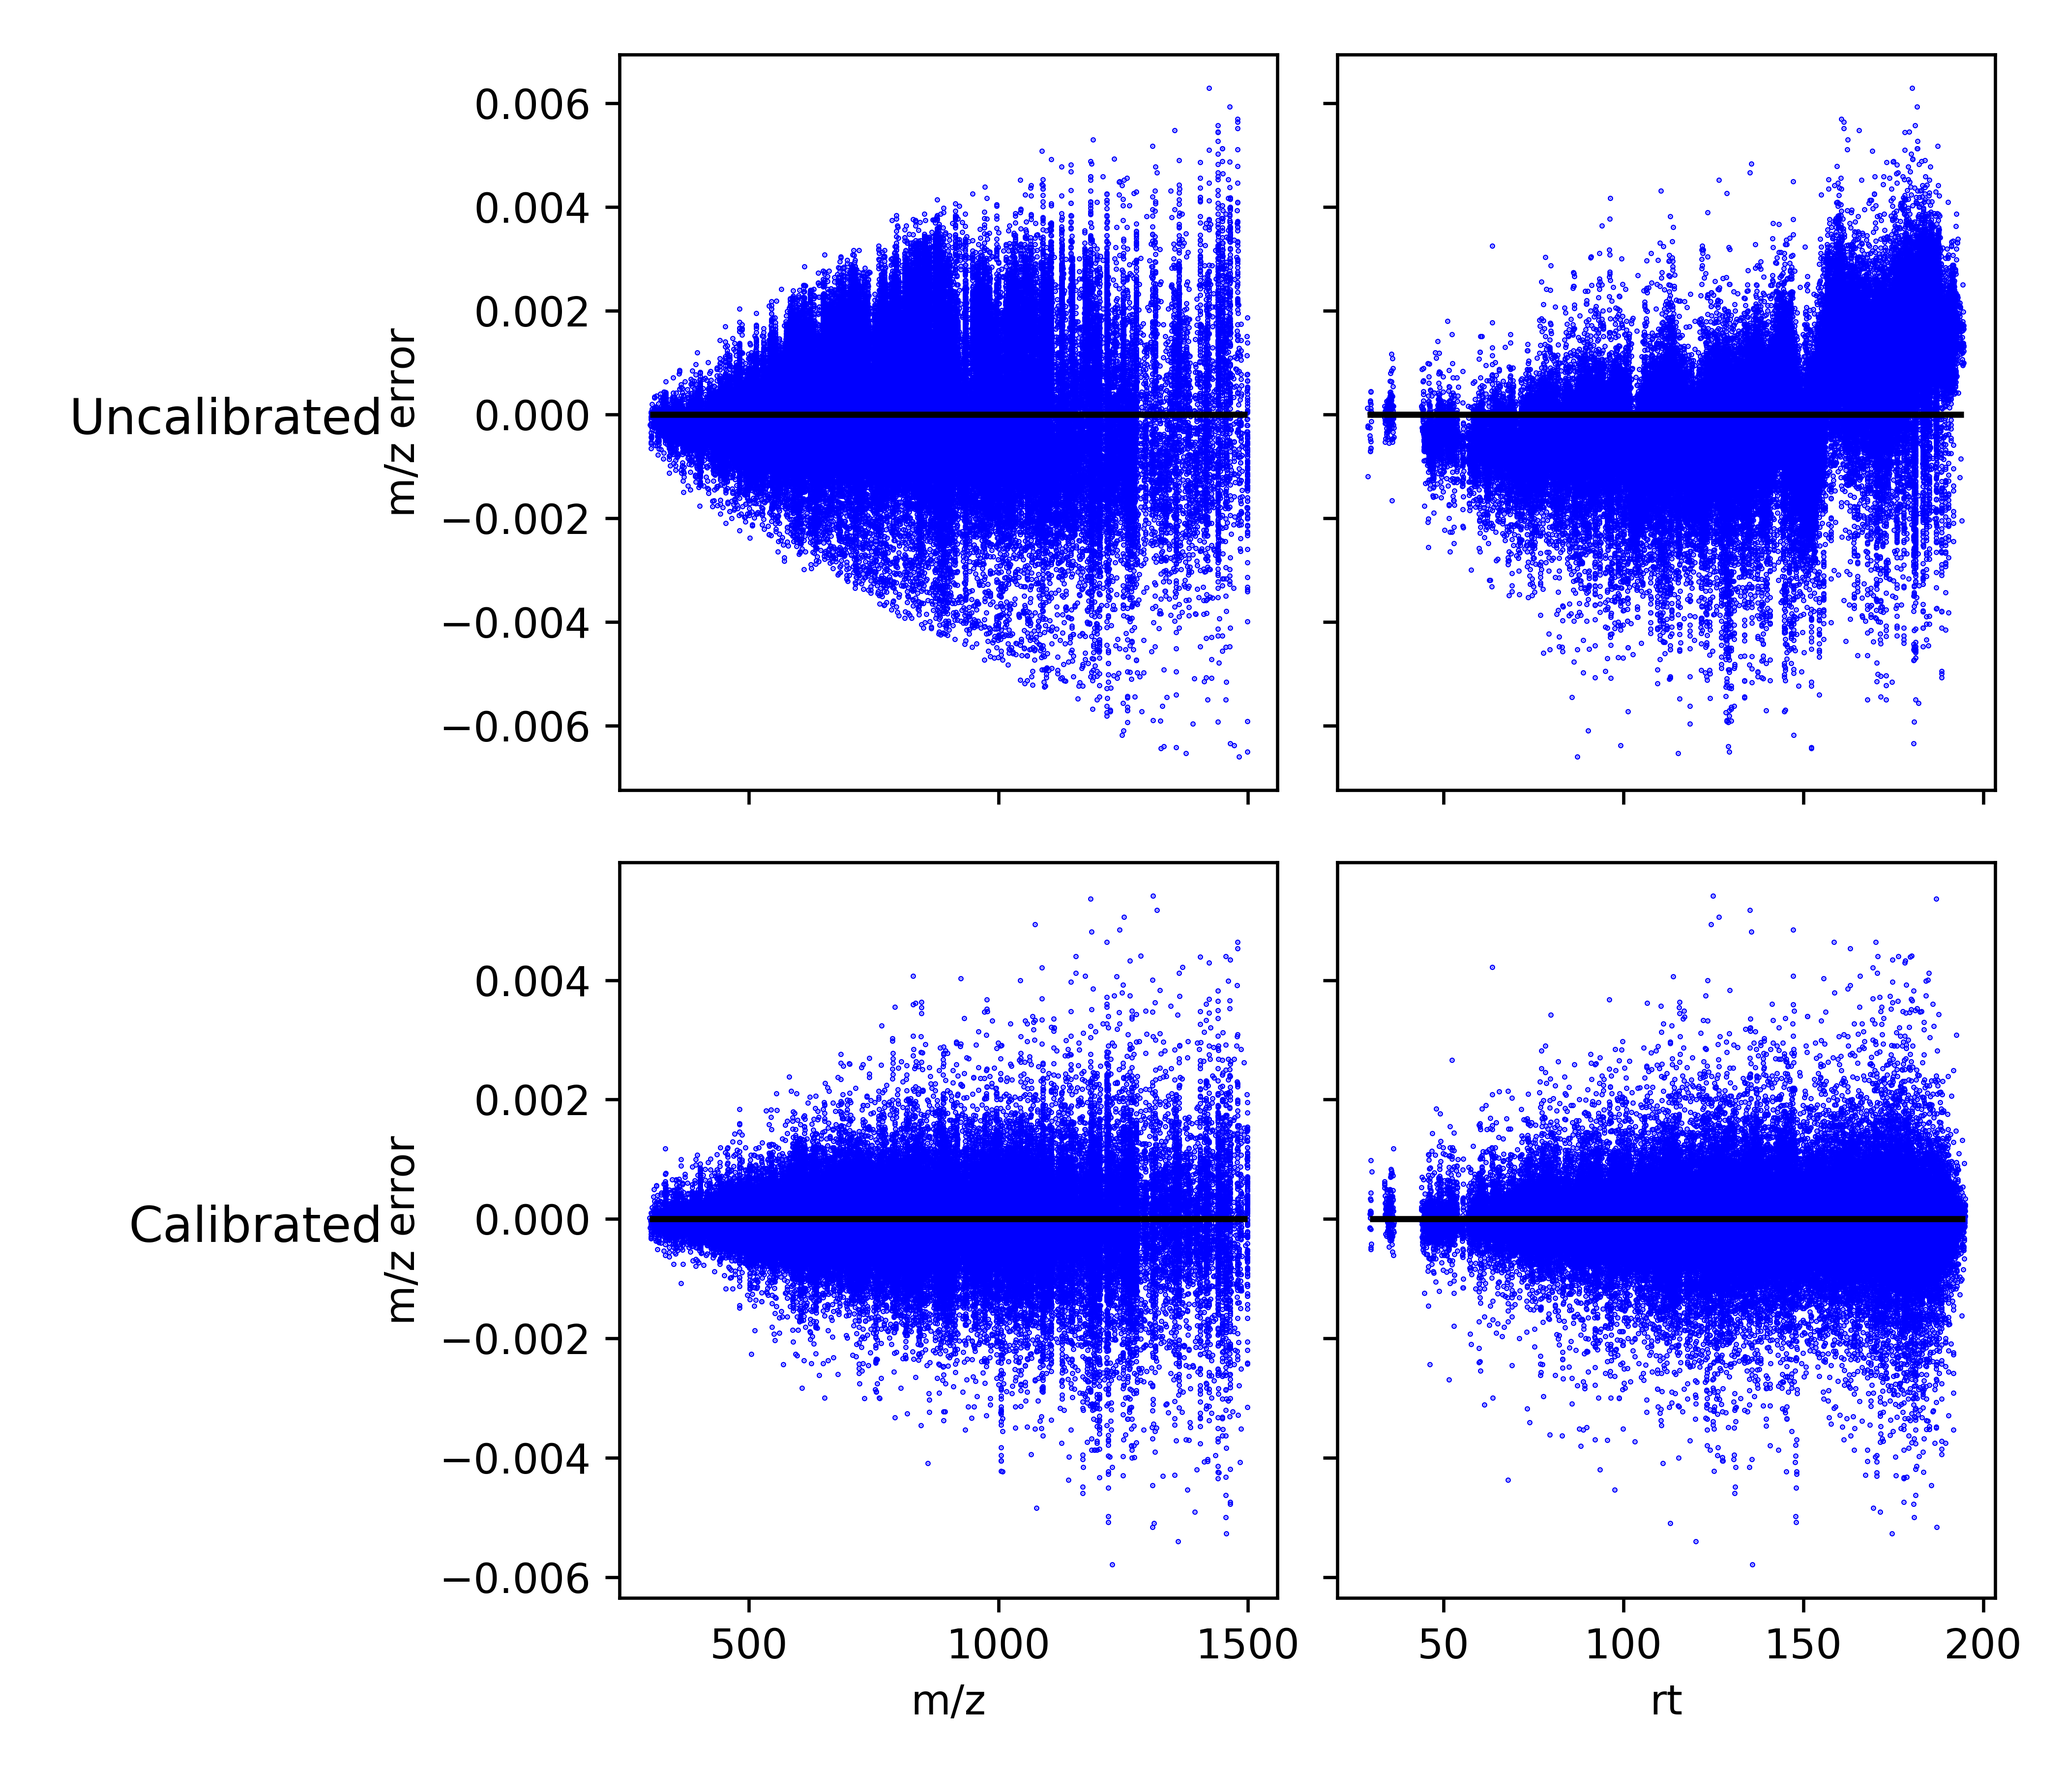
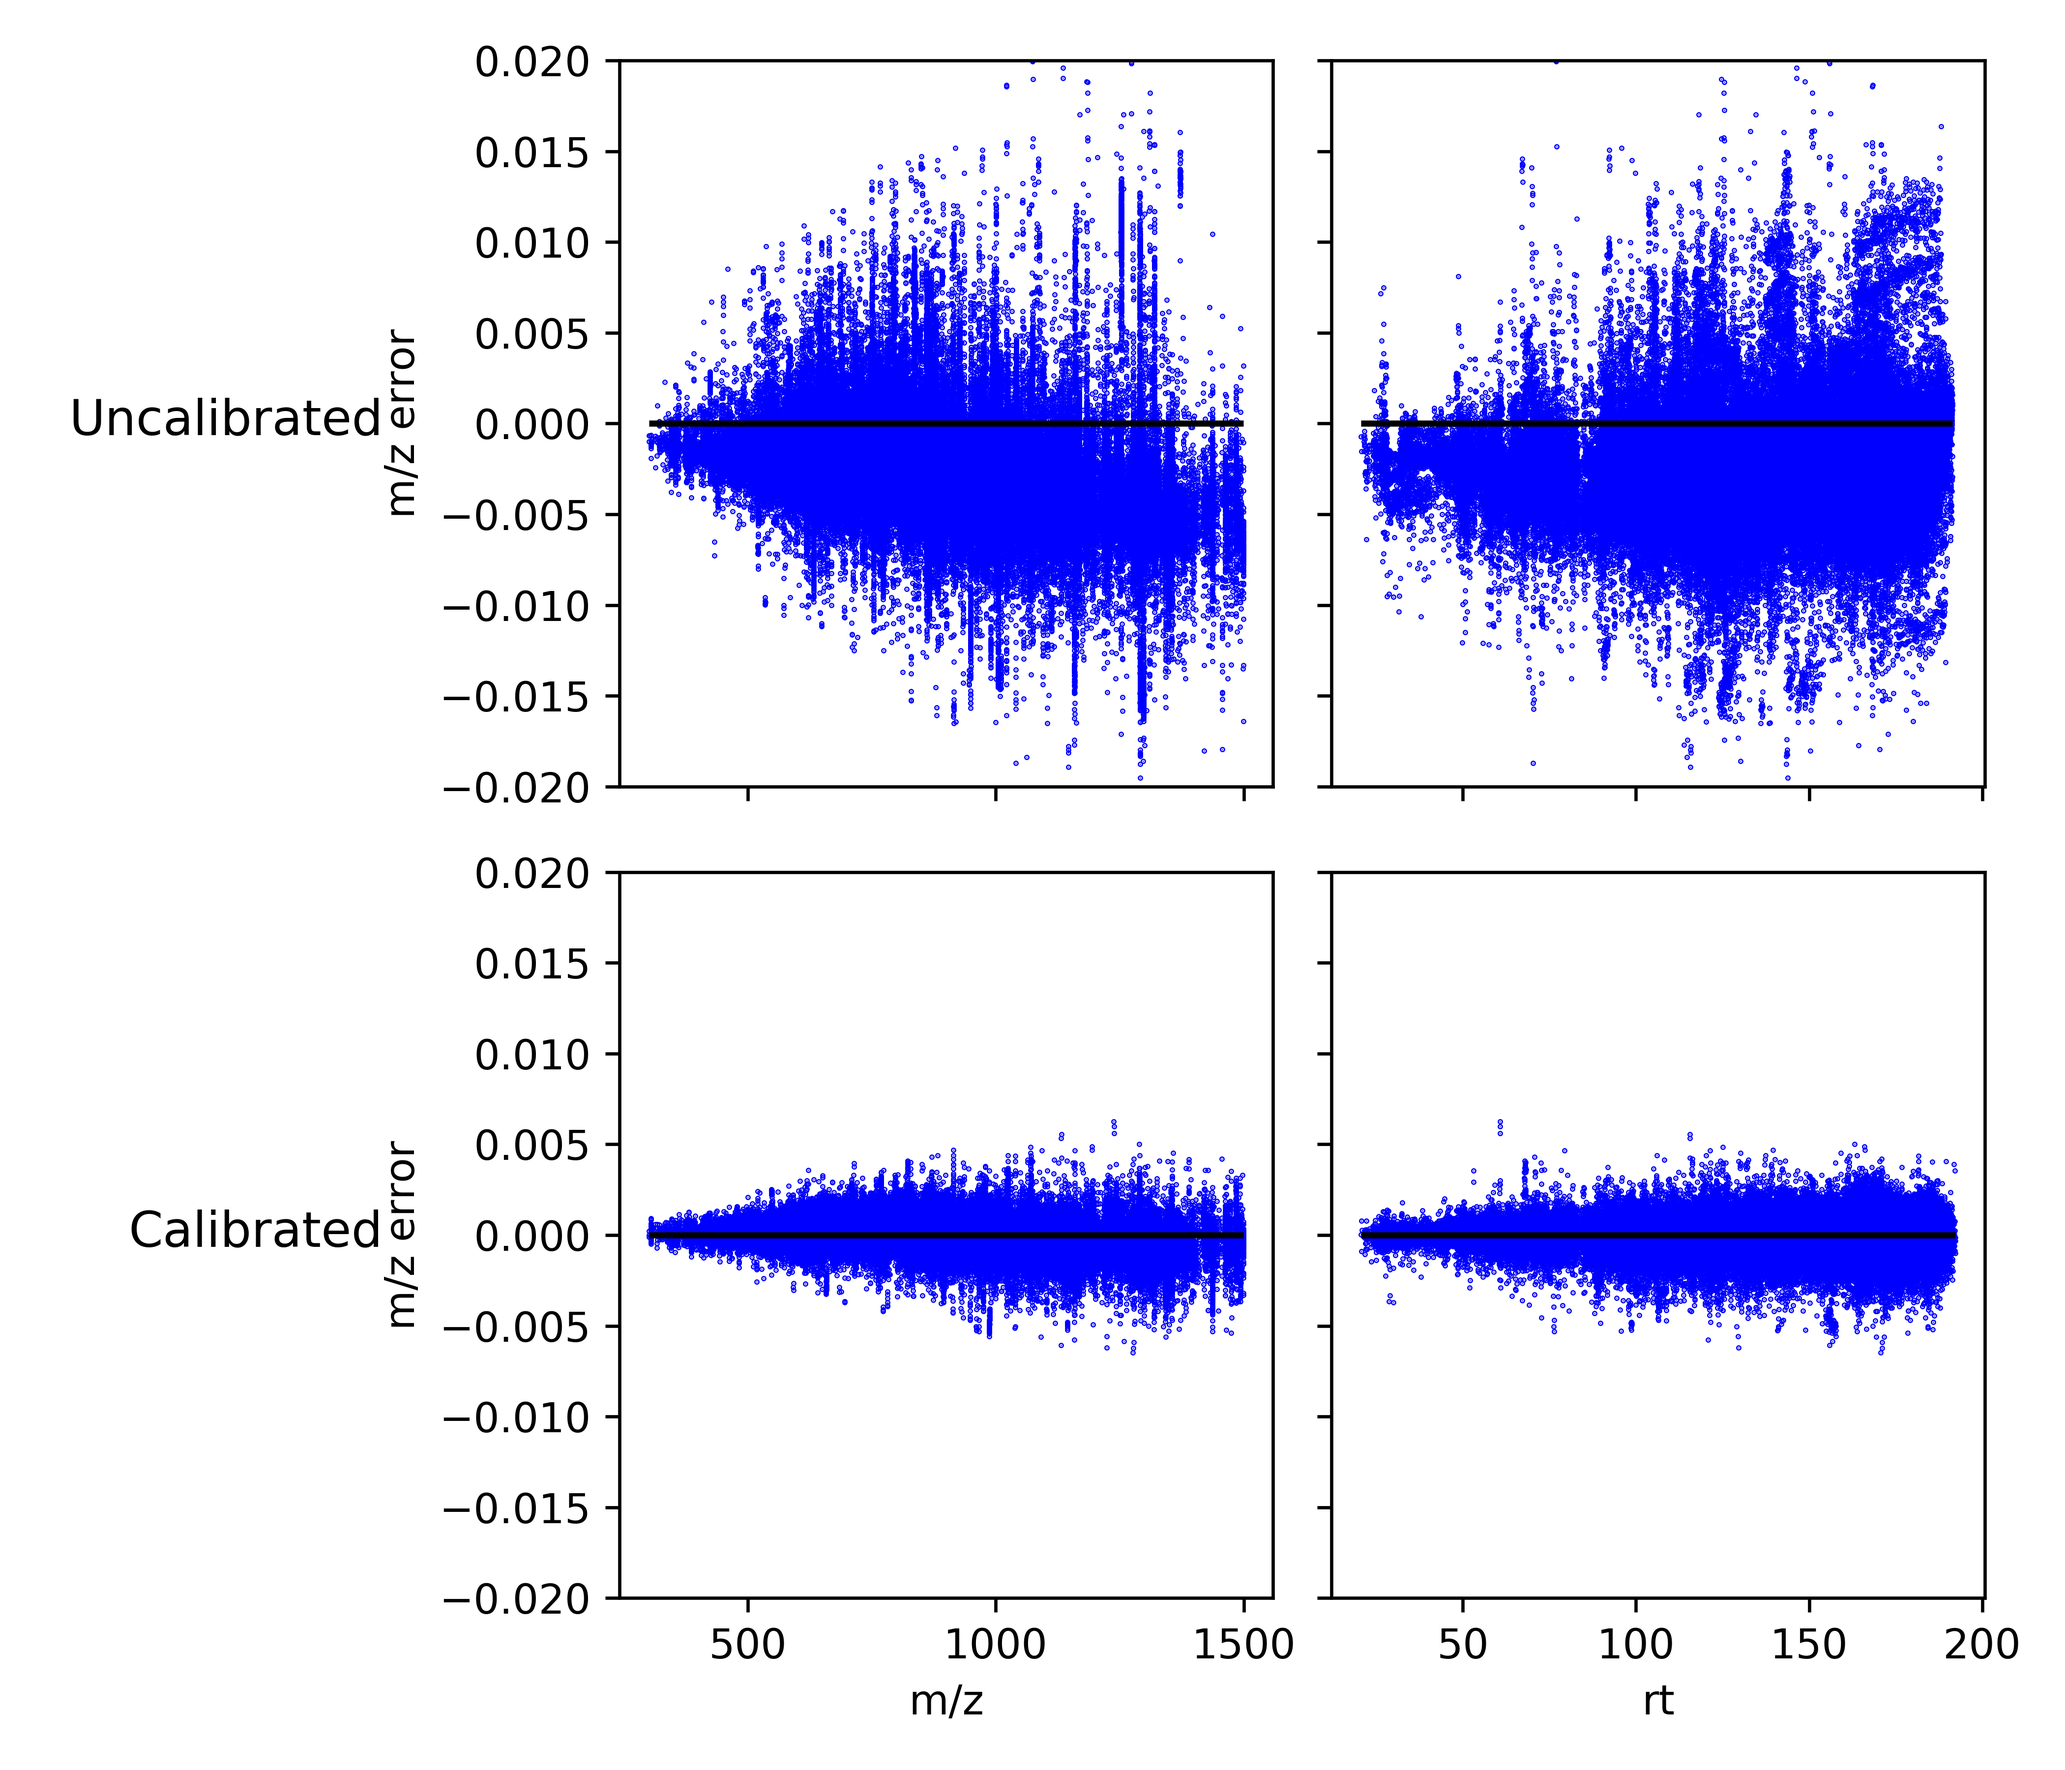
plots

diff --git a/FigureGeneration/fig1-calibErrors.py b/FigureGeneration/fig1-calibErrors.py
@@ -2,25 +2,30 @@ import numpy as np
 import matplotlib.pyplot as plt
 import pandas
 
-nice= pandas.read_csv(r"C:\Users\stepa\Data\PaperData\Jurkat\2017-07-31-17-44-19\Task1Calibrate\120426_Jurkat_highLC_Frac21inLinearbeforesc1.ms1dptsv", sep='\t')
-nice2= pandas.read_csv(r"C:\Users\stepa\Data\PaperData\Jurkat\2017-07-31-17-44-19\Task1Calibrate\120426_Jurkat_highLC_Frac21inNonLinearafterfc9.ms1dptsv", sep='\t')
+nice = pandas.read_csv(r"C:\Users\stepa\Data\PaperData\JurkatTrypsin\2017-10-12-17-10-32\Task1-CalibratingAllJurkat\120426_Jurkat_highLC_Frac16init.ms1dptsv", sep='\t')
+nice2 = pandas.read_csv(r"C:\Users\stepa\Data\PaperData\JurkatTrypsin\2017-10-12-17-10-32\Task1-CalibratingAllJurkat\120426_Jurkat_highLC_Frac16round7inter-scan.ms1dptsv", sep='\t')
 
 height = 6
 width = 7
 
+minY=-0.02
+maxY=0.02
+
 f, ((ax1, ax2), (ax3, ax4)) = plt.subplots(2, 2, sharex='col', sharey='row', figsize=(width,height))
 
-ax1.plot(nice['mz'],nice['Label'], 'bo',markersize = .3)
+ax1.plot(nice['mz'],nice['LabelTh'], 'bo',markersize = .3)
 ax1.hlines(0, min(nice['mz']), max(nice['mz']), zorder = 10)
+ax1.set_ylim([minY,maxY])
 
 ax1.set_ylabel('m/z error')
 ax1.annotate(r"Uncalibrated", xy=(0, 0.5), xycoords=ax1.yaxis.label, textcoords='offset points',
                 size='large', ha='right', va='center', xytext=(0,0.5))
 
-ax2.plot(nice['rt'],nice['Label'], 'bo',markersize = .3)
+ax2.plot(nice['rt'],nice['LabelTh'], 'bo',markersize = .3)
 ax2.hlines(0, min(nice['rt']), max(nice['rt']), zorder = 10)
+ax2.set_ylim([minY,maxY])
 
-ax3.plot(nice2['mz'],nice2['Label'], 'bo',markersize = .3)
+ax3.plot(nice2['mz'],nice2['LabelTh'], 'bo',markersize = .3)
 ax3.hlines(0, min(nice2['mz']), max(nice2['mz']), zorder = 10)
 
 ax3.set_ylabel('m/z error')
@@ -28,10 +33,13 @@ ax3.set_xlabel('m/z')
 
 ax3.annotate(r"Calibrated", xy=(0, 0.5), xycoords=ax3.yaxis.label, textcoords='offset points',
                 size='large', ha='right', va='center', xytext=(0,0.5))
+ax3.set_ylim([minY,maxY])
 
-ax4.plot(nice2['rt'],nice2['Label'], 'bo',markersize = .3)
+ax4.plot(nice2['rt'],nice2['LabelTh'], 'bo',markersize = .3)
 ax4.hlines(0, min(nice2['rt']), max(nice2['rt']), zorder = 10)
 ax4.set_xlabel('rt')
+
+ax4.set_ylim([minY,maxY])
 
 plt.tight_layout()
 

diff --git a/paper.tex b/paper.tex
@@ -62,7 +62,7 @@ This change not only expands the list of identified and localized modifications,
 The enhanced G-PTM-D workflow is presented in Figure~\ref{fgr:diagram}.
 
 \begin{figure}[H]
-  \includegraphics{paperDiagram.png}
+  \includegraphics[scale=0.1]{paperDiagram.png}
   \caption{The three steps of the G-PTM-D workflow are indicated in the light beige color.}
   \label{fgr:diagram}
 \end{figure}
@@ -89,7 +89,7 @@ UniProt XML protein databases used were downloaded on Sept 14, 2017, and contain
 This work presents four major changes to the previously published G-PTM-D workflow:
 a spectral calibration;
 a replacement of the open search with a custom multi-notch search for PTM discovery;
-replacement of the final traditional narrow mass search with a limited multi-notch search that permits identification of incorrectly deconvoluted precursor masses;
+replacement of the final traditional narrow mass search with a limited multi-notch search that permits exact matches even when incorrectly deisotoped precursor masses are present;
 and lastly, addition of capacity for identification of multiple co-fragmented peptides from a single MS/MS scan.
 To clarify the advantage of each change, they are first discussed separately, followed by an analysis of their combined effect upon overall G-PTM-D performance.
 

diff --git a/FigureGeneration/fig2-10ppmSearchCalib.py b/FigureGeneration/fig2-10ppmSearchCalib.py
@@ -2,7 +2,7 @@ import numpy as np
 import matplotlib.pyplot as plt
 import pandas
 
-maxi = 40000
+maxi = 35000 
 
 
 height = 6
@@ -10,7 +10,7 @@ width = 7
 
 f, ((ax1), (ax3)) = plt.subplots(2, 1, sharex='col', sharey='row', figsize=(width,height))
 
-ok = pandas.read_csv(r"C:\Users\stepa\Data\PaperData\Jurkat\2017-08-01-09-15-26\Task1Search\aggregatePSMs_10ppmAroundZero.psmtsv", sep='\t')  
+ok = pandas.read_csv(r"C:\Users\stepa\Data\PaperData\JurkatTrypsin\1mm10ppmSearch\Task1-SearchTask\aggregatePSMs_1mm.psmtsv", sep='\t')  
 
 ok['Mass Diff (ppm)'] = pandas.to_numeric(ok['Mass Diff (ppm)'], errors='coerce')
 
@@ -25,9 +25,7 @@ ax1.set_ylabel('PSM count')
 ax1.annotate(r"Uncalibrated", xy=(0, 0.5), xycoords=ax1.yaxis.label, textcoords='offset points',
                 size='large', ha='right', va='center', xytext=(0,0.5))
 
-maxi = 40000
-
-ok = pandas.read_csv(r"C:\Users\stepa\Data\PaperData\Jurkat\2017-07-31-17-44-19\Task1Calibrate\2017-08-01-09-28-39\Task1Search\aggregatePSMs_10ppmAroundZero.psmtsv", sep='\t')  
+ok = pandas.read_csv(r"C:\Users\stepa\Data\PaperData\JurkatTrypsin\Calibrated\1mm10ppmSearch\Task1-SearchTask\aggregatePSMs_1mm.psmtsv", sep='\t')  
 
 ok['Mass Diff (ppm)'] = pandas.to_numeric(ok['Mass Diff (ppm)'], errors='coerce')
 

diff --git a/FigureGeneration/fig3-searchTypes.py b/FigureGeneration/fig3-searchTypes.py
@@ -19,7 +19,7 @@ yTicks = [1,2]
 
 plt.ylim([0.5,2.5])
 plt.yticks(yTicks, ylabels)
-plt.title("Narrow-Mass Search")
+plt.title("Narrow-Window Search")
 
 plt.subplot(312)
 
@@ -31,7 +31,7 @@ plt.plot(dates, values, '-')
 ylabels = ['Reject', 'Accept']
 yTicks = [1,2]
 
-plt.title("Notch Search")
+plt.title("Multi-Notch Search")
 plt.ylim([0.5,2.5])
 
 plt.yticks(yTicks, ylabels)
@@ -50,7 +50,7 @@ yTicks = [1,2]
 
 plt.ylim([0.5,2.5])
 
-plt.title("Wide-Mass Search")
+plt.title("Open Search")
 
 plt.yticks(yTicks, ylabels)
 plt.tight_layout()
